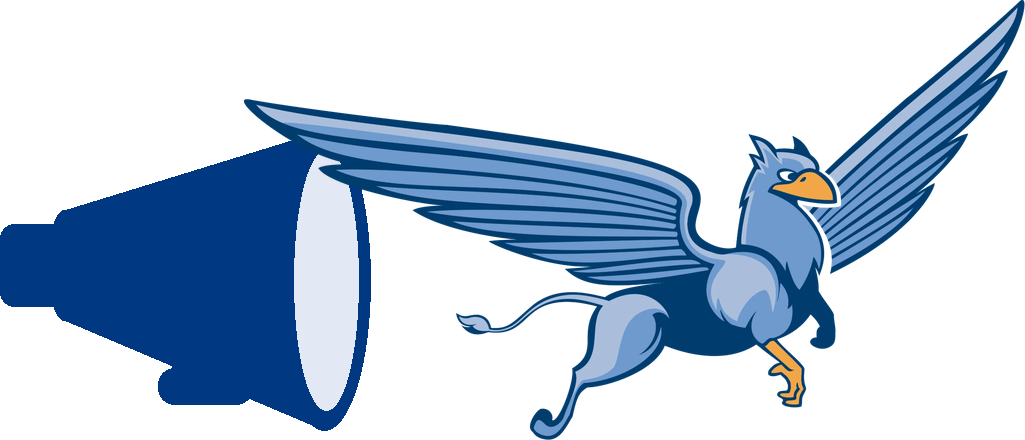
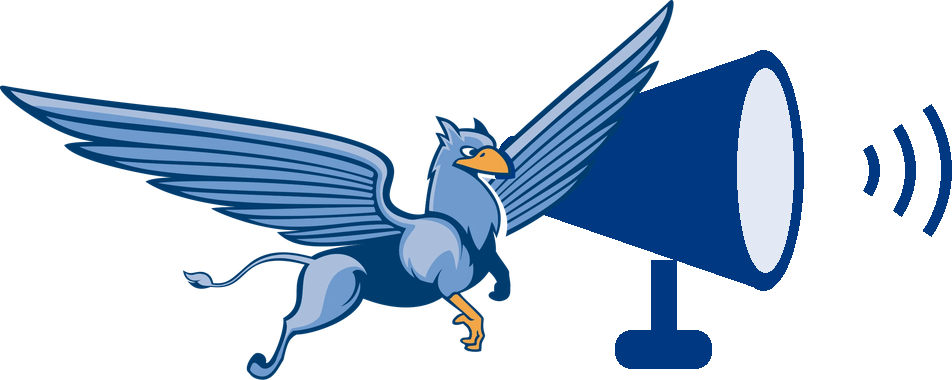
Shout-outs badge: griffin speaks into the megaphone
Reposition the composite so the griffin's beak sits at the megaphone's
mouthpiece (beak tip auto-located), with the bell and sound waves projecting
out the other side.

diff --git a/app/dashboard/shout-outs/page.tsx b/app/dashboard/shout-outs/page.tsx
@@ -245,9 +245,9 @@ export default function SpotlightsPage() {
       <div className="card p-5 flex items-center gap-4 overflow-hidden">
         <Image
           src="/shoutout-griffin.png"
-          alt="Grace griffin shouting out of a megaphone"
-          width={1025}
-          height={440}
+          alt="Grace griffin speaking into a megaphone"
+          width={952}
+          height={380}
           priority
           className="h-16 w-auto shrink-0"
         />
